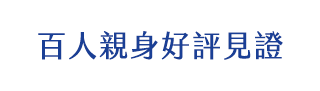
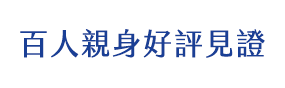
調整dvh

Changed region(s): [[0.0561, 0.3182, 0.9544, 0.6591]]

diff --git a/src/pages/share/share.scss b/src/pages/share/share.scss
@@ -319,8 +319,10 @@
         left: 50%;
         top: 50%;
         transform: translate(-50%, -50%);
-        width: 600px;
-        height: 650px;
+        width: 80vw;
+        height: 86vw;
+        max-width: 600px;
+        max-height: 660px;
         .frame {
             width: 100%;
             height: 100%;
@@ -361,7 +363,8 @@
                 }
                 .content,
                 .text {
-                    height: 310px;
+                    max-height: 310px;
+                    height: 68%;
                     strong {
                         color: rgb(230, 61, 112);
                     }
@@ -396,7 +399,7 @@
                     background-color: rgb(27, 68, 151);
                     margin: 0 auto;
                     display: block;
-                    margin-top: 40px;
+                    margin-top: 12%;
                     border-radius: 20px;
                     transition: transform 0.3s ease;
                     cursor: pointer;
@@ -410,20 +413,21 @@
                     }
                 }
                 .step1 {
+                    height: 100%;
                     .title {
                         font-size: 22px;
                         margin-bottom: 20px;
                     }
                     .text {
-                        height: 230px;
+                        max-height: 230px;
                         padding: 0 10px;
                         overflow-x: hidden;
                         overflow-y: auto;
                     }
                 }
                 .step2 {
+                    height: 100%;
                     .content {
-                        height: 260px;
                     }
                     .agree {
                         display: flex;
@@ -433,7 +437,7 @@
                             width: 30px;
                             height: 20px;
                             position: absolute;
-                            bottom: 43px;
+                            bottom: 10%;
                             right: 0;
                             background-color: rgba(0, 0, 0, 0);
                             color: #d0d0d0;
@@ -469,7 +473,9 @@
                                 padding-right: 15px;
                             }
                             input {
-                                width: 280px;
+                                max-width: 280px;
+                                max-height: 45px;
+                                width: 100%;
                                 height: 45px;
                                 border-radius: 20px;
                                 border: 0;
@@ -492,12 +498,10 @@
             }
         }
         @media screen and (max-width: 768px) {
-            width: 500px;
-            height: 550px;
             .frame {
                 .content-box {
+                    top: 53%;
                     .content {
-                        height: 250px;
                     }
                     button {
                         height: 30px;
@@ -516,12 +520,11 @@
                             font-size: 14px;
                         }
                         .text {
-                            height: 200px;
+                            height: 65%;
                         }
                     }
                     .step2 {
                         .content {
-                            height: 200px;
                             strong,
                             p {
                                 font-size: 14px;
@@ -529,6 +532,9 @@
                         }
                         .agree {
                             margin-top: 10px;
+                            .slide-down {
+                                display: none;
+                            }
                         }
                         button {
                             margin-top: 15px;
@@ -536,7 +542,7 @@
                     }
                     .step3 {
                         .input-box {
-                            margin-top: 20px;
+                            margin-top: 30px;
                             .input {
                                 margin-bottom: 15px;
                                 p {
@@ -544,12 +550,11 @@
                                     padding-right: 10px;
                                 }
                                 input {
-                                    width: 230px;
                                 }
                             }
                         }
                         button {
-                            margin-top: 40px;
+                            margin-top: 8%;
                         }
                     }
                     .step4 {
@@ -566,15 +571,14 @@
             }
         }
         @media screen and (max-width: 480px) {
-            width: 400px;
-            height: 450px;
+            width: 90vw;
+            height: 96vw;
             .frame {
                 .content-box {
-                    top: 53%;
+                    top: 50%;
                     width: 70%;
-
                     .content {
-                        height: 160px;
+                        height: 70%;
                     }
                     button {
                         height: 25px;
@@ -589,7 +593,6 @@
                             margin-bottom: 10px;
                         }
                         .text {
-                            height: 170px;
                         }
                     }
                     .step2 {
@@ -598,7 +601,9 @@
                             margin-bottom: 10px;
                         }
                         .content {
-                            height: 140px;
+                        }
+                        button {
+                            margin-top: 10px;
                         }
                     }
                     .step3 {
@@ -609,7 +614,6 @@
                                 padding-right: 10px;
                             }
                             input {
-                                width: 160px;
                             }
                         }
                         button {
@@ -630,12 +634,9 @@
             }
         }
         @media screen and (max-width: 380px) {
-            width: 300px;
-            height: 320px;
             .frame {
                 .content-box {
                     .content {
-                        height: 140px;
                         strong,
                         p {
                             font-size: 12px;
@@ -650,7 +651,6 @@
                             margin-bottom: 0px;
                         }
                         .text {
-                            height: 120px;
                         }
                         p {
                             font-size: 12px;
@@ -662,7 +662,6 @@
                             margin-bottom: 0px;
                         }
                         .content {
-                            height: 120px;
                             strong,
                             p {
                                 font-size: 12px;
@@ -671,9 +670,6 @@
                         .agree {
                             label {
                                 font-size: 12px;
-                            }
-                            .slide-down {
-                                display: none;
                             }
                         }
                     }
@@ -690,7 +686,6 @@
                                     padding-right: 10px;
                                 }
                                 input {
-                                    width: 140px;
                                     height: 32px;
                                 }
                             }

diff --git a/src/pages/index/index.scss b/src/pages/index/index.scss
@@ -1,6 +1,9 @@
 .container {
     &.active {
         min-height: 200vh;
+        @supports (min-height: 100dvh) {
+            min-height: 200dvh;
+        }
         .section1,
         .section2,
         .section3,
@@ -499,8 +502,10 @@
         left: 50%;
         top: 45%;
         transform: translate(-50%, -50%);
-        width: 600px;
-        height: 700px;
+        width: 80vw;
+        height: 86vw;
+        max-width: 600px;
+        max-height: 660px;
         .frame {
             width: 100%;
             height: 100%;
@@ -511,7 +516,7 @@
                 background-image: url(@/assets/img/index1-2/light-box/circle_bg.png);
             }
             .inner {
-                transform: translateY(45px);
+                transform: translateY(20px);
             }
             .swiper {
                 width: 100%;
@@ -533,16 +538,10 @@
             }
         }
         @media screen and (max-width: 768px) {
-            width: 500px;
-            height: 600px;
         }
         @media screen and (max-width: 600px) {
-            width: 450px;
-            height: 550px;
         }
         @media screen and (max-width: 480px) {
-            width: 400px;
-            height: 500px;
             .frame {
                 .swiper {
                     .swiper-button-prev {
@@ -555,12 +554,8 @@
             }
         }
         @media screen and (max-width: 420px) {
-            width: 350px;
-            height: 450px;
         }
         @media screen and (max-width: 380px) {
-            width: 300px;
-            height: 400px;
             .frame {
                 .swiper {
                     .swiper-button-prev {
@@ -820,11 +815,11 @@ $delays: (
             display: flex;
             justify-content: center;
             padding-top: 1%;
-            margin-left: 14.25%;
+            margin-left: 15%;
             width: 62%;
             a {
                 img {
-                    width: 99.25%;
+                    width: 100%;
                     transition: transform 0.3s ease;
                     &:hover {
                         transform: scale(1.05);
@@ -1115,7 +1110,7 @@ $delays: (
                         position: absolute;
                         width: 42%;
                         left: 50%;
-                        bottom: 13%;
+                        bottom: 11%;
                         transform: translateX(-50%);
                         transition: transform 0.3s ease;
                         cursor: pointer;
